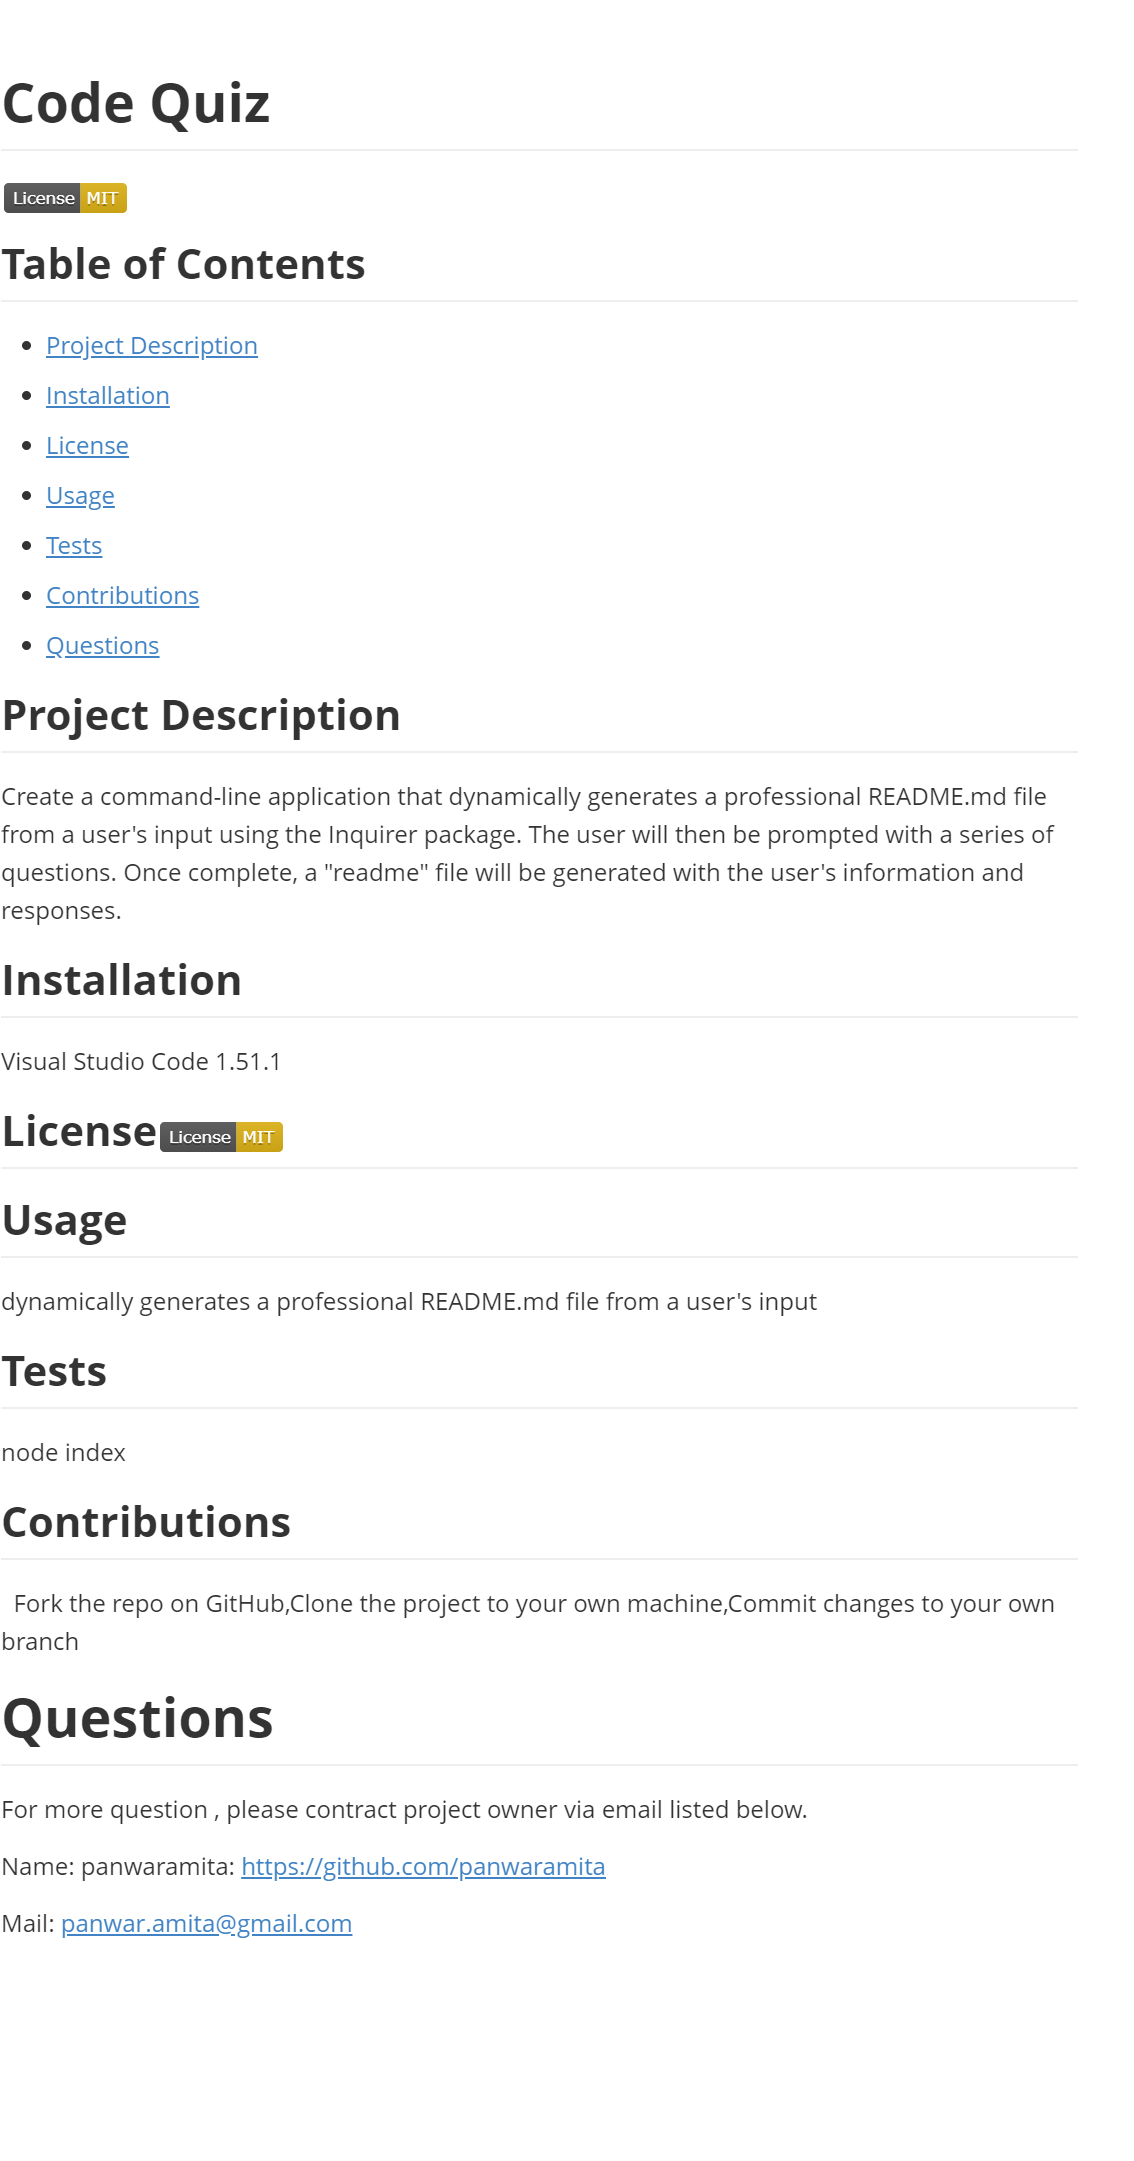
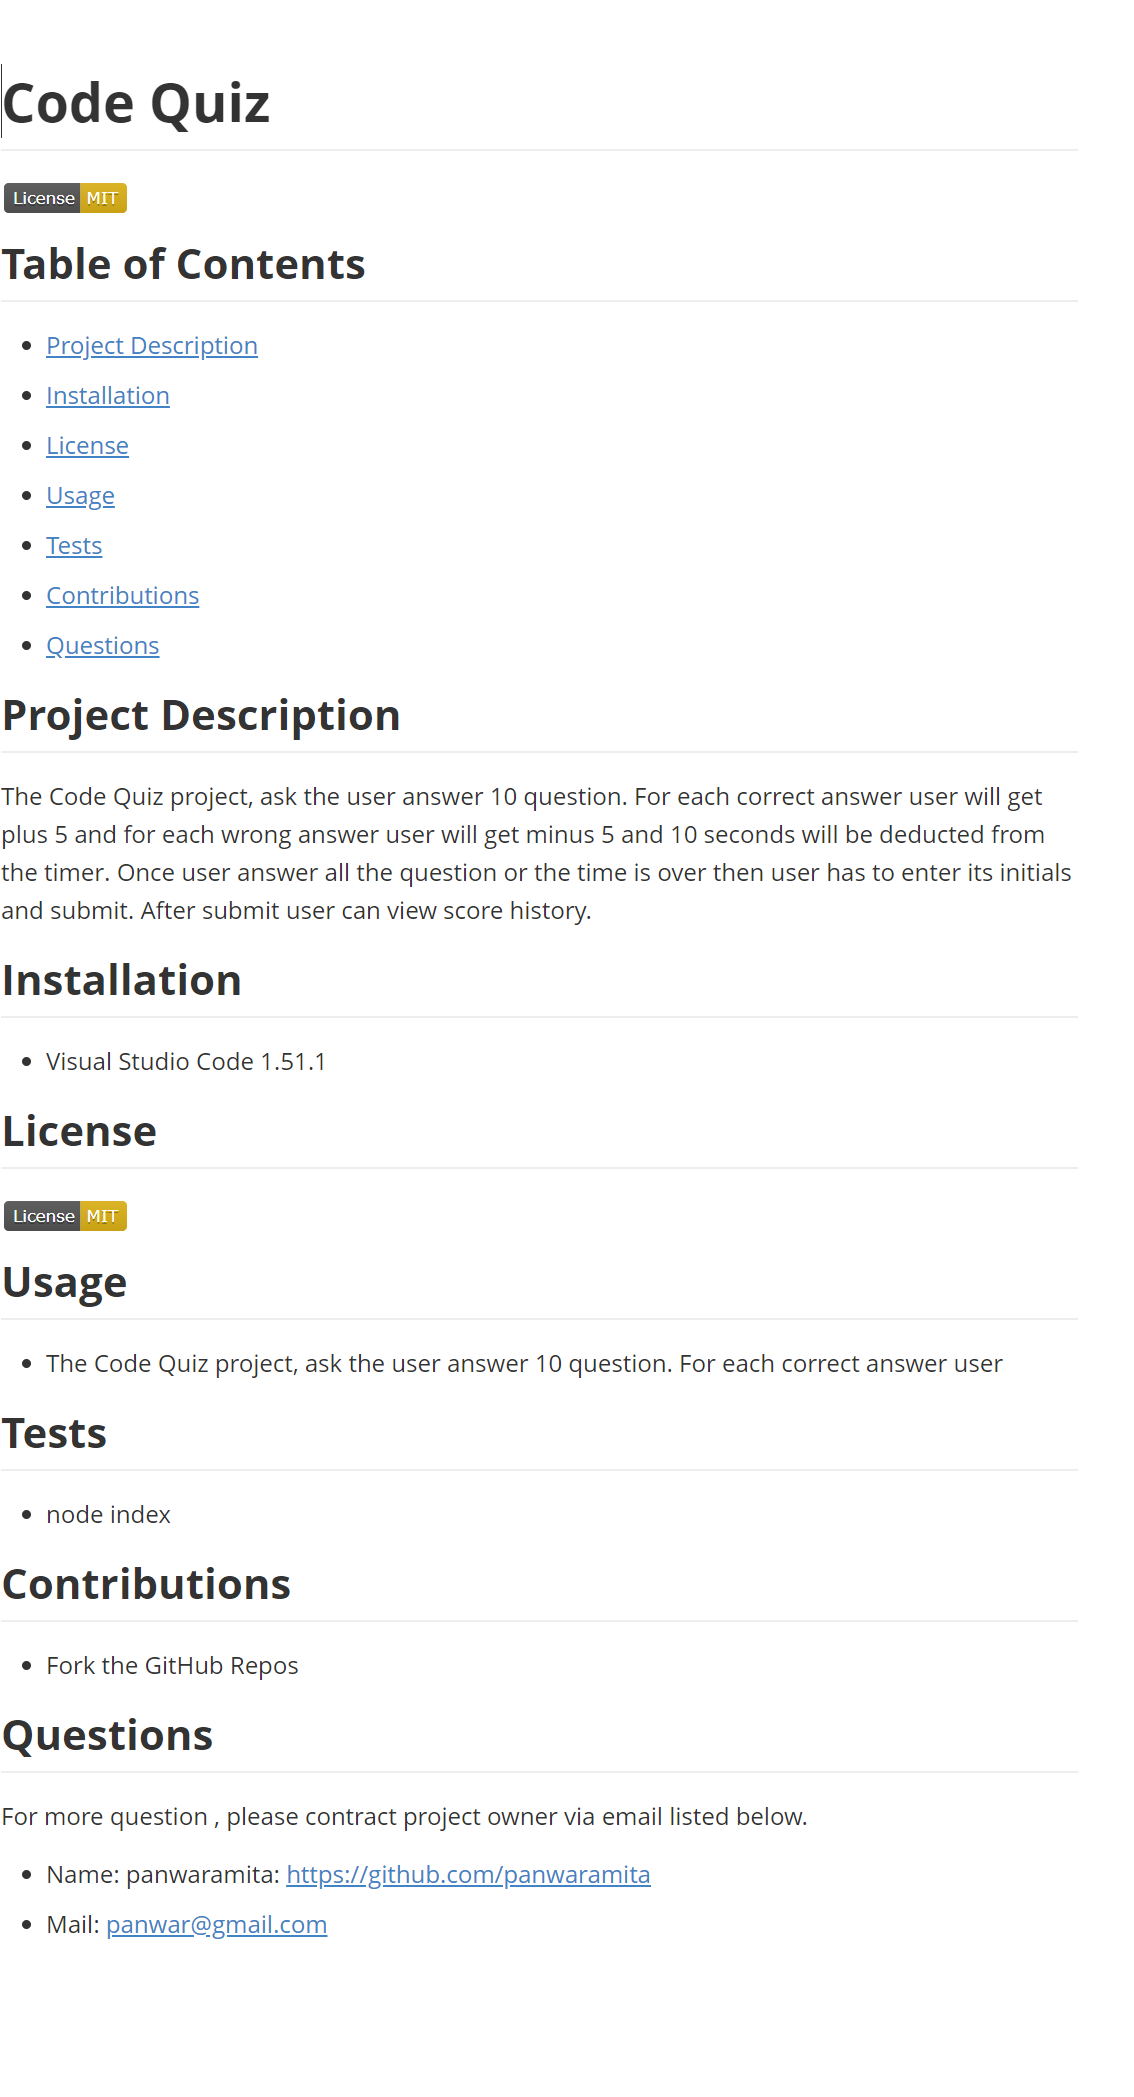
added the screenshot

diff --git a/utils/generateMarkdown.js b/utils/generateMarkdown.js
@@ -118,11 +118,13 @@ const checkContributor=(data)=>{
 function generateMarkdown(data) {
 
   return `# ${data.title}\n`
+  
 
     +
     renderLicenseSection(data.license)
     +
-    `\n ## Table of Contents
+    
+ `\n ## Table of Contents
 
 * [Project Description](#Project Description)
 * [Installation](#Installation)
@@ -133,24 +135,31 @@ ${checkContributor(data.contributing)}
 * [Questions](#Questions)
 
 ## Project Description
+
 ${data.description} 
 
 ## Installation
+
 ${data.installation} 
 
 ## License\n`
+
 +
 renderLicenseSection(data.license)
 +
+
 `\n## Usage
+
 ${data.usage}
           
 ## Tests
+
 ${data.tests}
           
 ${generateContributor(data.contributing)}
 
-# Questions
+## Questions
+
 For more question , please contract project owner via email listed below.\n
 Name: ${data.name}: https://github.com/${data.name}
 \nMail: ${data.email}

diff --git a/ReadmeGenrator.md b/ReadmeGenrator.md
@@ -11,25 +11,30 @@
 * [Questions](#Questions)
 
 ## Project Description
-The Code Quiz project, ask the user answer 10 question. For each correct answer user will get plus 5 and for each wrong answer user will get minus 5 and 10 seconds will be deducted from the timer.  
+
+The Code Quiz project, ask the user answer 10 question. For each correct answer user will get plus 5 and for each wrong answer user will get minus 5 and 10 seconds will be deducted from the timer. Once user answer all the question or the time is over then user has to enter its initials and submit. After submit user can view score history. 
 
 ## Installation
-- Visual Studio Code 1.51.1  
+
+- Visual Studio Code 1.51.1 
 
 ## License
 [![License: MIT](https://img.shields.io/badge/License-MIT-yellow.svg)](https://opensource.org/licenses/MIT)
 ## Usage
-The Code Quiz project, ask the user answer 10 question. For each correct answer user will get plus 5 and for each wrong answer user will get minus 5 and 10 seconds will be deducted from the timer.
+
+- The Code Quiz project, ask the user answer 10 question. For each correct answer user 
           
 ## Tests
-node index
+
+- node index
           
 ## Contributions
-  For the github repository
+- Fork the GitHub Repos
 
-# Questions
+## Questions
+
 For more question , please contract project owner via email listed below.
 
-Name: panwaramita: https://github.com/panwaramita
+- Name: panwaramita: https://github.com/panwaramita
 
-Mail: panwar.amita@gmail.com
+- Mail: panwar@gmail.com

diff --git a/README.md b/README.md
@@ -1,5 +1,7 @@
 # Readme Generator
 
+[![License: MIT](https://img.shields.io/badge/License-MIT-yellow.svg)](https://opensource.org/licenses/MIT)
+
 ## Contents
 
 * [Introduction](#Introduction)
